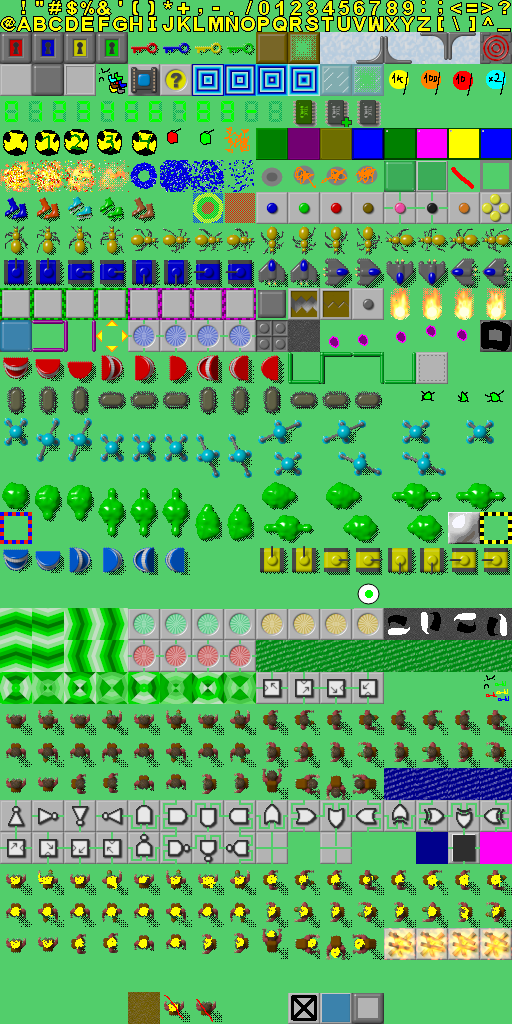
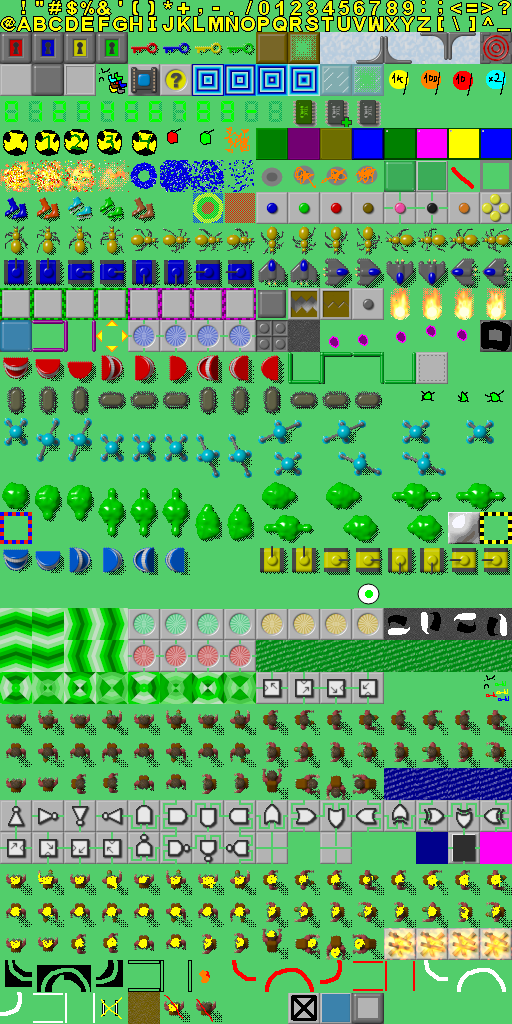
Add railroads (no RR switches yet)

Changed region(s): [[0.0, 0.9375, 0.4062, 1.0], [0.4375, 0.9375, 1.0, 0.9688]]

diff --git a/logic/src/actors/terrain.ts b/logic/src/actors/terrain.ts
@@ -120,7 +120,7 @@ export class ForceFloorRandom extends Actor {
 	}
 
 	onMemberSlideBonked(other: Actor): void {
-// This is shite code but whatever
+		// This is shite code but whatever
 		crossLevelData.RFFDirection ??= 0
 		crossLevelData.RFFDirection--
 		this.continuousActorCompletelyJoined(other)
@@ -542,3 +542,47 @@ export class Transmogrifier extends Actor {
 }
 
 actorDB["transmogrifier"] = Transmogrifier
+
+const directionStrings = "URDL"
+
+export class Railroad extends Actor {
+	id = "railroad"
+	activeTrack: Direction = parseInt(this.customData[0] || "0")
+	lastEnteredDirection: Direction = parseInt(this.customData[1] || "0")
+	legalRedirects: string[] = Array.from(this.customData.substr(2)).map(
+		val => ["UR", "DR", "DL", "UL", "LR", "UD"][parseInt(val)]
+	)
+	getLayer(): Layer {
+		return Layer.STATIONARY
+	}
+	blocks(_other: Actor, enterDirection: Direction): boolean {
+		const directionString = directionStrings[(enterDirection + 2) % 4]
+		// If there is no legal redirect regarding this direction, this direction cannot be entered
+		return !this.legalRedirects.find(val => val.includes(directionString))
+	}
+	actorCompletelyJoined(other: Actor): void {
+		const directionString = directionStrings[(other.direction + 2) % 4]
+		const isLegalDirection = this.legalRedirects.find(val =>
+			val.includes(directionString)
+		)
+		if (isLegalDirection) this.lastEnteredDirection = other.direction
+	}
+	redirectTileMemberDirection(_other: Actor, direction: Direction): Direction {
+		const directionString =
+			directionStrings[(this.lastEnteredDirection + 2) % 4]
+		const legalRedirects = this.legalRedirects
+			.filter(val => val.includes(directionString))
+			.map(val =>
+				directionStrings.indexOf(val[1 - val.indexOf(directionString)])
+			)
+		// Search for a valid (relative) direction in this order: Forward, right, left, backward
+		// TODO Railroad switches
+		for (const offset of [0, 1, -1, 2])
+			if (legalRedirects.includes((direction + offset + 4) % 4))
+				return (direction + offset + 4) % 4
+		// This...shouldn't happen outside of illegal railroads, so just don't redirect
+		return direction
+	}
+}
+
+actorDB["railroad"] = Railroad

diff --git a/logic/src/actors/teleport.ts b/logic/src/actors/teleport.ts
@@ -12,11 +12,13 @@ function findNextTeleport<T extends Actor>(
 		other,
 		teleport
 	) => {
-		const neighbor = teleport.tile.getNeighbor(other.direction)
 		return (
 			(teleport.tile[Layer.MOVABLE].length === 0 &&
-				neighbor &&
-				this.level.checkCollisionToTile(other, neighbor, other.direction)) ??
+				this.level.checkCollisionToTile(
+					other,
+					teleport.tile,
+					other.direction
+				)) ??
 			false
 		)
 	}
@@ -78,20 +80,16 @@ export class RedTeleport extends Actor {
 			false,
 			(other: Actor, teleport: Actor) => {
 				if (teleport.tile[Layer.MOVABLE].length !== 0) return false
-				const rotateUntil = other.direction + 4
-				for (; rotateUntil !== other.direction; other.direction++) {
-					const neighbor = teleport.tile.getNeighbor(other.direction % 4)
+				for (let offset = 0; offset < 4; offset++)
 					if (
-						neighbor &&
 						this.level.checkCollisionToTile(
 							other,
-							neighbor,
-							other.direction % 4
+							teleport.tile,
+							(other.direction + offset) % 4
 						)
 					)
 						return true
-				}
-				other.direction %= 4
+
 				return false
 			}
 		).tile
@@ -139,24 +137,19 @@ export class GreenTeleport extends Actor {
 			]
 			other.direction = this.level.random() % 4
 			mainLoop: for (const teleport of validTeleports) {
-				const rotateUntil = other.direction + 4
-				for (; rotateUntil !== other.direction; other.direction++) {
-					const neighbor = teleport.tile.getNeighbor(other.direction % 4)
+				for (let offset = 0; offset < 4; offset++)
 					if (
-						neighbor &&
 						this.level.checkCollisionToTile(
 							other,
-							neighbor,
-							other.direction % 4
+							teleport.tile,
+							other.direction + offset
 						)
 					) {
 						targetTeleport = teleport
 						break mainLoop
 					}
-				}
 			}
 		}
-		other.direction %= 4
 		if (!targetTeleport)
 			throw new Error(
 				"This state should never happen, please report if this happens"

diff --git a/logic/src/parsers/c2m.ts b/logic/src/parsers/c2m.ts
@@ -35,7 +35,7 @@ function createFieldFromArrayBuffer(
 				tiles.push(...parseTile())
 				continue
 			}
-			if (tile[1] === null) tile[1] = view.getUint8()
+			if (tile[1] === null) tile[1] = view.getUint8() % 4
 			if (tile[2] === null) {
 				// Handle special cases
 				switch (tile[0]) {
@@ -71,12 +71,17 @@ function createFieldFromArrayBuffer(
 					case "letterTile":
 						tile[2] = " "
 						break
-					case "modifier8": {
-						const options = view.getUint8()
+					case "modifier8":
+					case "modifier16":
+					case "modifier32": {
+						let options
+						if (tile[0] === "modifier8") options = view.getUint8()
+						else if (tile[0] === "modifier16") options = view.getUint16()
+						else options = view.getUint32()
+
 						const modTiles = parseTile()
 						tiles.splice(tiles.indexOf(tile), 1)
 						switch (modTiles[0]?.[0]) {
-							case undefined:
 							case "steelWall":
 							case "toggleSwitch":
 							case "transmogrifier":
@@ -144,7 +149,26 @@ function createFieldFromArrayBuffer(
 								tiles.push(...modTiles)
 								break
 							}
+							case "railroad": {
+								modTiles[0][2] = ""
+								const activeTrack = (options >> 8) - (options >> 12) * 0x10
+								if (activeTrack >= 6)
+									throw new Error(
+										`Railroad's active track is invalid! Expected value to be less than 6, got ${activeTrack}`
+									)
+								modTiles[0][2] += activeTrack
+								// Initial direction is mod 4
+								modTiles[0][2] += (options >> 12) % 4
+								for (let i = 0; i < 6; i++)
+									if (getBit(options, i)) modTiles[0][2] += i.toString()
+								if (getBit(options, 7)) modTiles[0][2] += "s"
+								tiles.push(...modTiles)
+								break
+							}
 							default:
+								console.warn(
+									`Found a modifier on an unrelated actor "${tiles[0]}"`
+								)
 								tiles.push(...modTiles)
 								break
 						}

diff --git a/logic/src/actor.ts b/logic/src/actor.ts
@@ -197,8 +197,6 @@ export abstract class Actor {
 
 		if (!directions) return
 
-		// TODO Force redirection of movement (train tracks)
-
 		for (const direction of directions)
 			if (this.level.checkCollision(this, direction)) {
 				// Yeah, we can go here
@@ -212,16 +210,24 @@ export abstract class Actor {
 	}
 
 	_internalStep(direction: Direction): boolean {
-		if (this.cooldown) return false
-		// TODO Force redirection of movement (train tracks)
+		if (this.cooldown || !this.moveSpeed) return false
 		this.direction = direction
-		const canMove = this.level.checkCollision(this, direction, true)
-		// Welp, something stole our spot, too bad
-		if (!canMove || !this.moveSpeed) return false
 		const newTile = this.tile.getNeighbor(direction)
 		if (!newTile) return false
+		const canMove = this.level.checkCollisionToTile(
+			this,
+			newTile,
+			direction,
+			true
+		)
+
+		// Welp, something stole our spot, too bad
+		if (!canMove) return false
 		if (!this.isDeciding) this.level.decidingActors.push(this)
 		this.isDeciding = true
+		/* for (const exitActor of this.tile.allActors)
+			direction =
+				exitActor.redirectTileMemberDirection?.(this, direction) ?? direction */
 		const moveLength = (this.moveSpeed * 3) / newTile.getSpeedMod(this)
 		this.currentMoveSpeed = this.cooldown = moveLength
 		this.oldTile = this.tile
@@ -452,4 +458,8 @@ export abstract class Actor {
 	 * Checks if an actor can push this actor
 	 */
 	canBePushed?(other: Actor, direction: Direction): boolean
+	/**
+	 * When an actor tries to check anything direction related while being on this actor, the direction can be changed with this
+	 */
+	redirectTileMemberDirection?(other: Actor, direction: Direction): Direction
 }

diff --git a/logic/src/level.ts b/logic/src/level.ts
@@ -237,32 +237,38 @@ export class LevelState {
 		direction: Direction,
 		pushBlocks = false
 	): boolean {
-		const newTile = actor.tile.getNeighbor(direction)
-		return newTile
-			? this.checkCollisionToTile(actor, newTile, direction, pushBlocks)
-			: false
+		return this.checkCollisionToTile(actor, actor.tile, direction, pushBlocks)
 	}
+	resolvedCollisionCheckDirection: Direction = Direction.UP
 	/**
 	 * Checks if a specific actor can move in a certain direction to a certain tile
 	 * @param actor The actor to check for
 	 * @param direction The direction the actor wants to enter the tile
-	 * @param newTile The tile the actor wants to enter
+	 * @param fromTile The tile the actor is coming from
 	 * @param pushBlocks If true, it will push blocks
 	 * @returns If the actor *can* move in that direction
 	 */
 	checkCollisionToTile(
 		actor: Actor,
-		newTile: Tile,
+		fromTile: Tile,
 		direction: Direction,
 		pushBlocks = false
 	): boolean {
+		// This is a pass by reference-esque thing, please don't die of cring
+		this.resolvedCollisionCheckDirection = direction
+
 		// Do stuff on the leaving tile
 
-		for (const exitActor of actor.tile.allActors)
+		for (const exitActor of actor.tile.allActors.reverse())
 			if (exitActor._internalExitBlocks(actor, direction)) {
 				actor.onBlocked?.(exitActor)
 				return false
-			}
+			} else
+				this.resolvedCollisionCheckDirection = direction =
+					exitActor.redirectTileMemberDirection?.(actor, direction) ?? direction
+
+		const newTile = fromTile.getNeighbor(direction)
+		if (newTile === null) return false
 
 		const toPush: Actor[] = []
 

diff --git a/logic/src/actors/playables.ts b/logic/src/actors/playables.ts
@@ -80,7 +80,7 @@ export abstract class Playable extends Actor {
 			}
 		}
 		canMove &&= !forcedOnly
-		const [vert, horiz] = getMovementDirections(this.level.gameInput)
+		let [vert, horiz] = getMovementDirections(this.level.gameInput)
 		if (
 			this.slidingState &&
 			(!canMove || (vert === undefined && horiz === undefined))
@@ -95,12 +95,14 @@ export abstract class Playable extends Actor {
 			// We have a direction we certanly wanna move to
 			if (vert === undefined || horiz === undefined) {
 				// @ts-expect-error We ruled out the possibility of no directions earlier, so if any of them is undefined, the other one is not
-				this.moveDecision = (vert ?? horiz) + 1
-				bonked = !this.level.checkCollision(this, this.moveDecision - 1, true)
+				bonked = !this.level.checkCollision(this, vert ?? horiz, true)
+				this.moveDecision = this.level.resolvedCollisionCheckDirection + 1
 			} else {
 				// We have two directions
 				const canHoriz = this.level.checkCollision(this, horiz, true)
+				horiz = this.level.resolvedCollisionCheckDirection
 				const canVert = this.level.checkCollision(this, vert, true)
+				vert = this.level.resolvedCollisionCheckDirection
 				if (canHoriz && !canVert) this.moveDecision = horiz + 1
 				else if (canVert && !canHoriz) this.moveDecision = vert + 1
 				else {

diff --git a/gamePlayer/src/cc2ImageFormat.ts b/gamePlayer/src/cc2ImageFormat.ts
@@ -482,7 +482,7 @@ const cc2ImageFormat: CC2ImageFormat = {
 			X: [12, 0.5],
 			Y: [12.5, 0.5],
 			Z: [13, 0.5],
-			"{": [13.5, 0.5],
+			"[": [13.5, 0.5],
 			"]": [14, 0.5],
 			"^": [14.5, 0.5],
 			_: [15, 0.5],
@@ -490,6 +490,28 @@ const cc2ImageFormat: CC2ImageFormat = {
 		voodooTileStart: [0, 21],
 		noMelindaSign: [5, 31],
 		noChipSign: [6, 31],
+		railroad: {
+			woodUR: [0, 30],
+			woodDR: [1, 30],
+			woodDL: [2, 30],
+			woodUL: [3, 30],
+			woodLR: [4, 30],
+			woodUD: [5, 30],
+			toggleMark: [6, 30],
+			toggleRailUR: [7, 30],
+			toggleRailDR: [8, 30],
+			toggleRailDL: [9, 30],
+			toggleRailUL: [10, 30],
+			toggleRailLR: [11, 30],
+			toggleRailUD: [12, 30],
+			railUR: [13, 30],
+			railDR: [14, 30],
+			railDL: [15, 30],
+			railUL: [0, 31],
+			railLR: [1, 31],
+			railUD: [2, 31],
+		},
+		railroadSign: [3, 31],
 	},
 }
 

diff --git a/gamePlayer/src/art/terrain.ts b/gamePlayer/src/art/terrain.ts
@@ -1,6 +1,6 @@
 import { artDB, setArtForActor } from "../const"
-import { genericAnimatedArt } from "../visuals"
-import { Trap } from "../logic/actors/terrain"
+import { ActorArt, genericAnimatedArt } from "../visuals"
+import { Railroad, Trap } from "../logic/actors/terrain"
 
 artDB["letterTile"] = actor => [
 	{
@@ -113,3 +113,15 @@ artDB["flameJet"] = actor => ({
 artDB["hint"] = { actorName: "hint" }
 
 artDB["transmogrifier"] = genericAnimatedArt("transmogrifier", 4)
+
+setArtForActor<Railroad>("railroad", actor => [
+	{ actorName: "gravel" },
+	...actor.legalRedirects.reduce<ActorArt[]>(
+		(acc, val) =>
+			new Array<ActorArt>({
+				actorName: "railroad",
+				animation: `wood${val}`,
+			}).concat(acc, [{ actorName: "railroad", animation: `rail${val}` }]),
+		[]
+	),
+])

diff --git a/logic/src/parsers/c2mData.ts b/logic/src/parsers/c2mData.ts
@@ -80,7 +80,7 @@ const cc2Tiles = [
 	[["timeBonus"], null],
 	[["stopwatch"], null],
 	[["transmogrifier"]],
-	[["railroadTrack"]], // Oh no
+	[["railroad"]], // Oh no
 	[["steelWall"]],
 	[["tnt"], null],
 	[["helmet"], null],
@@ -112,7 +112,7 @@ const cc2Tiles = [
 	[["unknown"]],
 	[["thinWall", 0, null], null],
 	[["unknown"]],
-	[["railroadSign"], null],
+	[["railroadIgnoreSign"], null],
 	[["customWall", 0, null]],
 	[["letterTile", 0, null]],
 	[["outlineContinuos", 0, "on"]],

diff --git a/logic/src/tile.ts b/logic/src/tile.ts
@@ -16,8 +16,8 @@ class Tile extends Array<Array<Actor>> {
 			...this[Layer.ITEM],
 			...this[Layer.MOVABLE],
 			...this[Layer.STATIONARY],
-			...this[Layer.ITEM_SUFFIX],
 			...this[Layer.SPECIAL],
+			...this[Layer.ITEM_SUFFIX],
 		]
 	}
 	x: number
